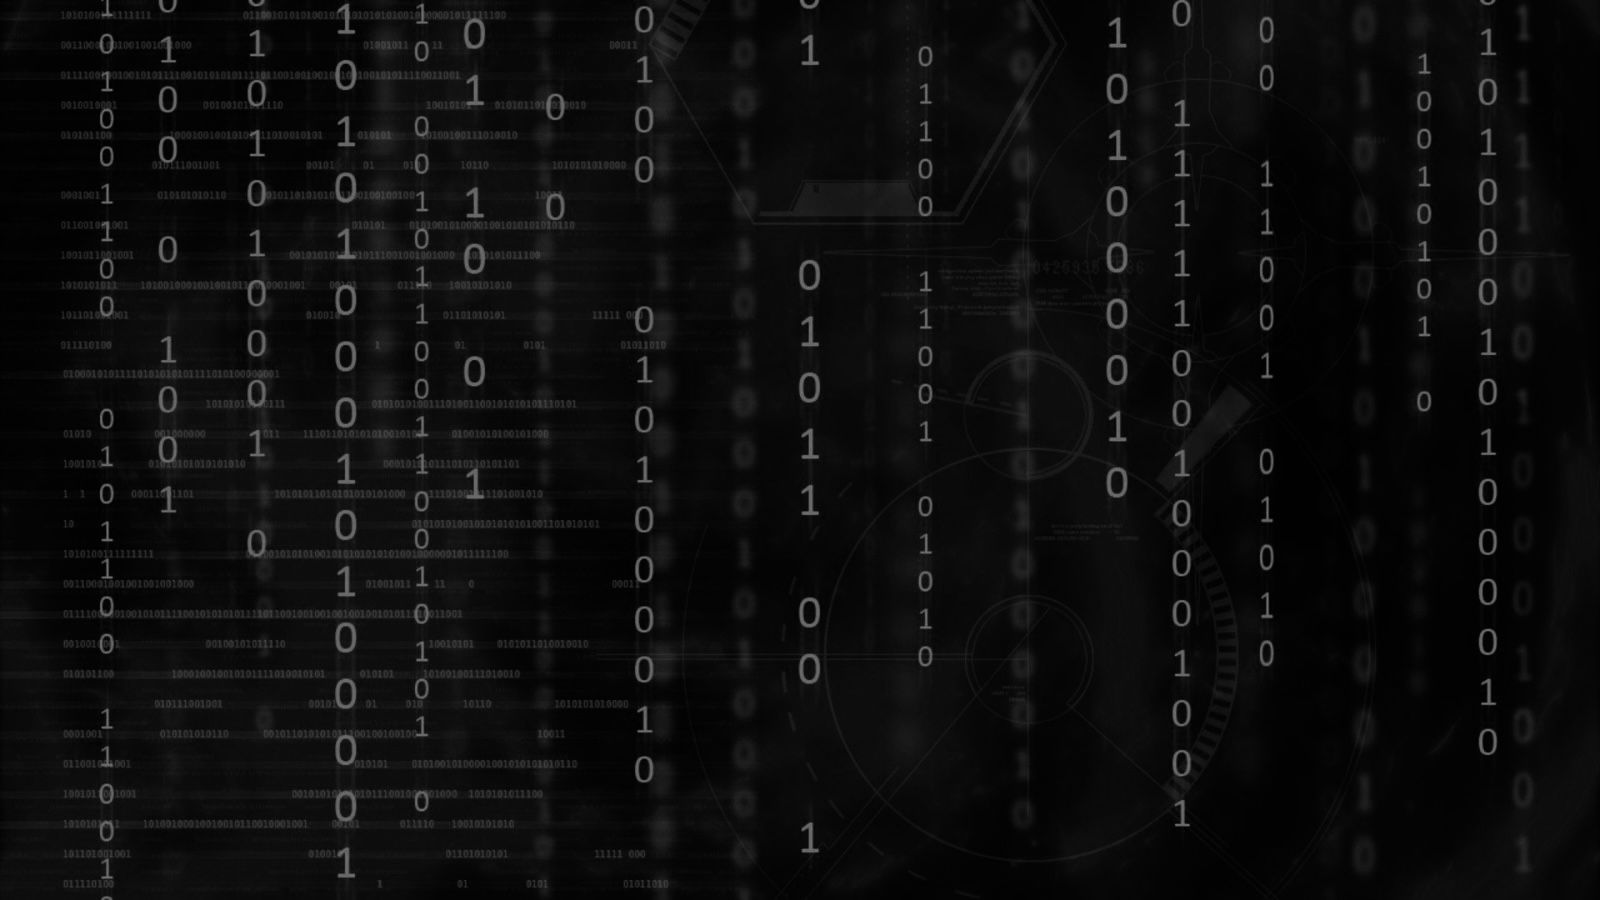
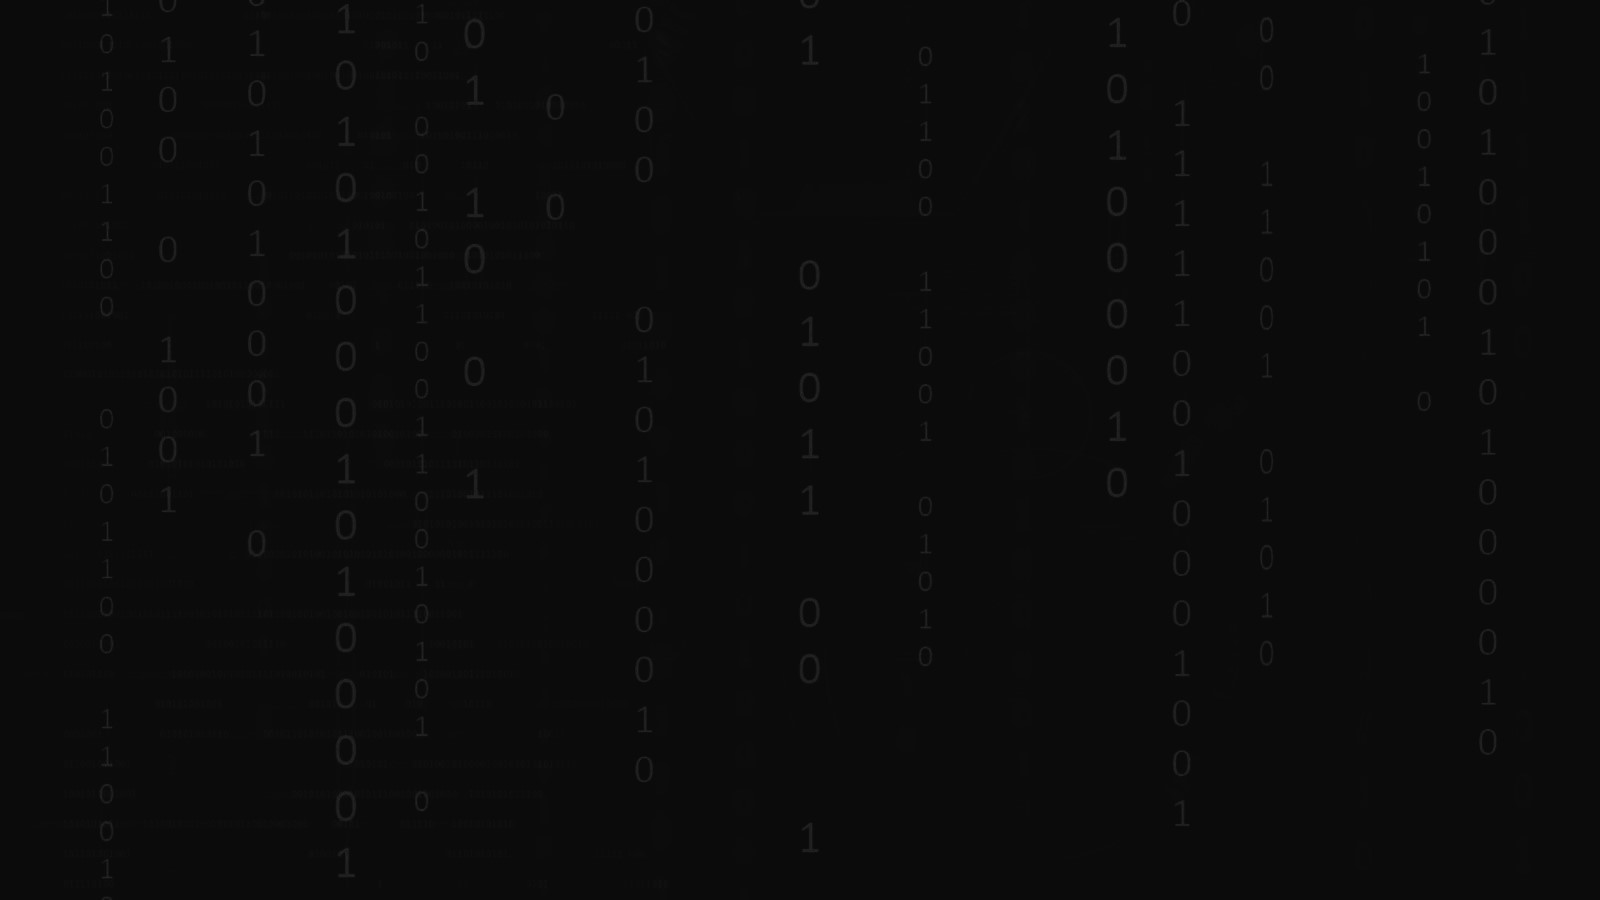
Add files via upload

diff --git a/homepage.html b/homepage.html
@@ -80,18 +80,20 @@
                     </div>
                 </div>
               
-            </div>
-           
-            <div class="center" title="CLICK ON Size: 2,54 MB">
-                <div class="download-btn btn-1">
-                  <div class="top">
-                    <a href="Edson Mateus CV-Resume.pdf">DOWNLOAD CV</a> <i class="fa fa-cloud-download"></i> 
-                  </div>
-                  <div class="bottom">
-                    <a href="Edson Mateus CV-Resume.pdf"> Size: 2,54 MB </a>
-                  </div>
+
+                <div class="center" title="CLICK ON Size: 2,54 MB">
+                    <div class="download-btn btn-1">
+                      <div class="top">
+                        <a href="Edson Mateus CV-Resume.pdf">DOWNLOAD CV</a> <i class="fa fa-cloud-download"></i> 
+                      </div>
+                      <div class="bottom">
+                        <a href="Edson Mateus CV-Resume.pdf"> Size: 2,54 MB </a>
+                      </div>
+                    </div>
                 </div>
             </div>
+           
+           
            
      </div>
 
@@ -102,14 +104,15 @@
             </h1>
 
                 <h4 class="anih4">As I look forward to growing my career in the Information Technology industry,
-                    I would like you to get to know me better on both professional and personal level.
+                    I would like you to get to <article id="h2"> know me better on both professional and personal level.</article>
                      I am a very simple person, focused on achieving my goals.
                    
                     <p>
                         
                         <br> I loved the idea of coding and setting up networks
                          in a very young age, it was something I
-                          couldn’t let go of. I’ve always been eager to learn more about computer infrastructure,
+                          couldn’t let go of.<article id="h2">I’ve always been eager to learn more about computer infrastructure,
+                        </article> 
                            from the input/output to the entire motherboard.
                        
 
@@ -117,9 +120,9 @@
                     <br>
                     <p>
                         From front-end to back-end development, my curiosity has grown alongside technology.
-                         Understanding the languages like JavaScript, C#, 
-                        Python, HTML, CSS, C++, SQL, the beauty of coding and seeing a final project come to
-                         life. I’ve also delved into networking engineering, learning how to configure switches, 
+                        <article id="h2">  Understanding the languages like JavaScript, C#, 
+                            Python, HTML, CSS, C++, SQL, the beauty of coding and seeing a final project come to
+                             life. </article>  I’ve also delved into networking engineering, learning how to configure switches, 
                          routers, power beams, and other equipment. I’ve developed an understanding of network
                           topologies, cable management, and their various types.
                         

diff --git a/styles2.css b/styles2.css
@@ -10,7 +10,7 @@ body{
     
     background: black;
     color: white;
-    background-image: url('pzu5ag3p.png');
+    background-image: url('fundo.jpeg');
     background-repeat: no-repeat;
 	background-attachment: fixed;
 	background-size: cover;
@@ -71,7 +71,7 @@ body:hover{
 
 .propic {
     animation: slideMe1 4s ease-in-out ;
-	 width: auto;
+  width: auto;
   height: 800px;
 }
 
@@ -97,20 +97,14 @@ body:hover{
     width: auto;
 }
 
-.work1 {
+.work {
   
-    background: rgba(0, 238, 255, 0.151);
-    width: 600px;
-    height: auto;
-    position: relative;
-    right: -330px;
-    justify-content: center;
-    text-align: center;
-    display: flex;
-    font-size: 18px;
-    border-radius: 50px;
+    background: rgba(0, 238, 255, 0.041);
+    padding: 30px;
+    border-radius: 30px;
     color: white;
 }
+
 
 #goingto {
   width: auto;
@@ -119,13 +113,25 @@ body:hover{
 
 #li {
   font-size: 18px;
-  color: red;
+  color: rgb(0, 255, 221);
+}
+
+#h1 {
+  color:  rgb(25, 0, 255);
+}
+
+
+#h2 {
+  color: rgb(0, 255, 221);
 }
 
 #welcome {
     padding: 20px;
     color: aqua;
     animation: slideMe 2s ease-in-out ;
+    justify-content: center;
+    text-align: center;
+    display: flex;
 }
 
 .welcome img{
@@ -202,17 +208,22 @@ nav{
     opacity: 1;
   }
 
-@media all and ( min-width: 1000px){
-	.intro {
+@media only screen and ( max-width: 1000px){
+	.main {
 	 flex: 3;
 	}
-;
+
+
 	}
 
 	.intro {
 
 		order: 1;
 
+  }
+
+  .work {
+    order: 1;
   }
 
     @keyframes slideMe{
@@ -246,7 +257,7 @@ nav{
 
         
     .download-btn {
-        width:auto;
+        width: 340px;
         height:50px;
         text-align:center;
         cursor:pointer;

diff --git a/work.html b/work.html
@@ -49,7 +49,7 @@
             <h1 id="welcome">WORK HISTORY
                 <img id="goingto" src="ti.webp" alt="oba"> </h1>
 
-            <div class="work1">
+            <div class="work">
                 
                 <h1>
                     <p>
@@ -74,7 +74,7 @@
                 </h1>
             </div>
 <br>
-                   <div class="work1">
+             <div class="work">
                 <h1>
                     <p>
                        2021-03-01 / 2021-12-17
@@ -82,7 +82,7 @@
                         IT Technician
                         <p>Ztel Communications, South Africa</p>
                         <li id="li">
-                            Work in the field instslling and setting
+                            Work in the field installing and setting
                             up clients WI-FI and Fiber 
                             
                         </li>
@@ -101,7 +101,8 @@
                 </h1>
             </div>
             <br>
-            <div class="work1">
+
+            <div class="work">
                 <h1>
                     <p>
                        2021-12-17 / 2022-06-15
@@ -128,7 +129,7 @@
 
                <br> 
                
-               <div class="work1">
+            <div class="work">
                 <h1>
                     <p>
                        2022-06-17 / 2023-012-10

diff --git a/styles.css b/styles.css
@@ -8,7 +8,7 @@
 
 body{
 
-	background: url('pzu5ag3p.png');
+	background: url('fundo.jpeg');
 	color: white;
 	display: flex;
 	height: 100yh;
@@ -151,9 +151,12 @@ filter: drop-shadow(0 0 25px aqua);
   cursor: pointer;
   transition: all 0.3s ease;
 }
+
 .button input[type="button"]:hover{
   background: #5029bc;
 }
+
+
 @media (max-width: 950px) {
   .container{
     width: 90%;

diff --git a/styles3.css b/styles3.css
@@ -10,7 +10,7 @@ body{
     
     background: rgb(4, 0, 26);
     color: white;
-    background-image: url('pzu5ag3p.png');
+    background-image: url('fundo.jpeg');
     background-repeat: no-repeat;
 	background-attachment: fixed;
 	background-size: cover;

diff --git a/Contact.html b/Contact.html
@@ -12,6 +12,11 @@
    </head>
 
 <body>
+
+
+
+
+  
   <div class="container">
 
     <div class="content">
